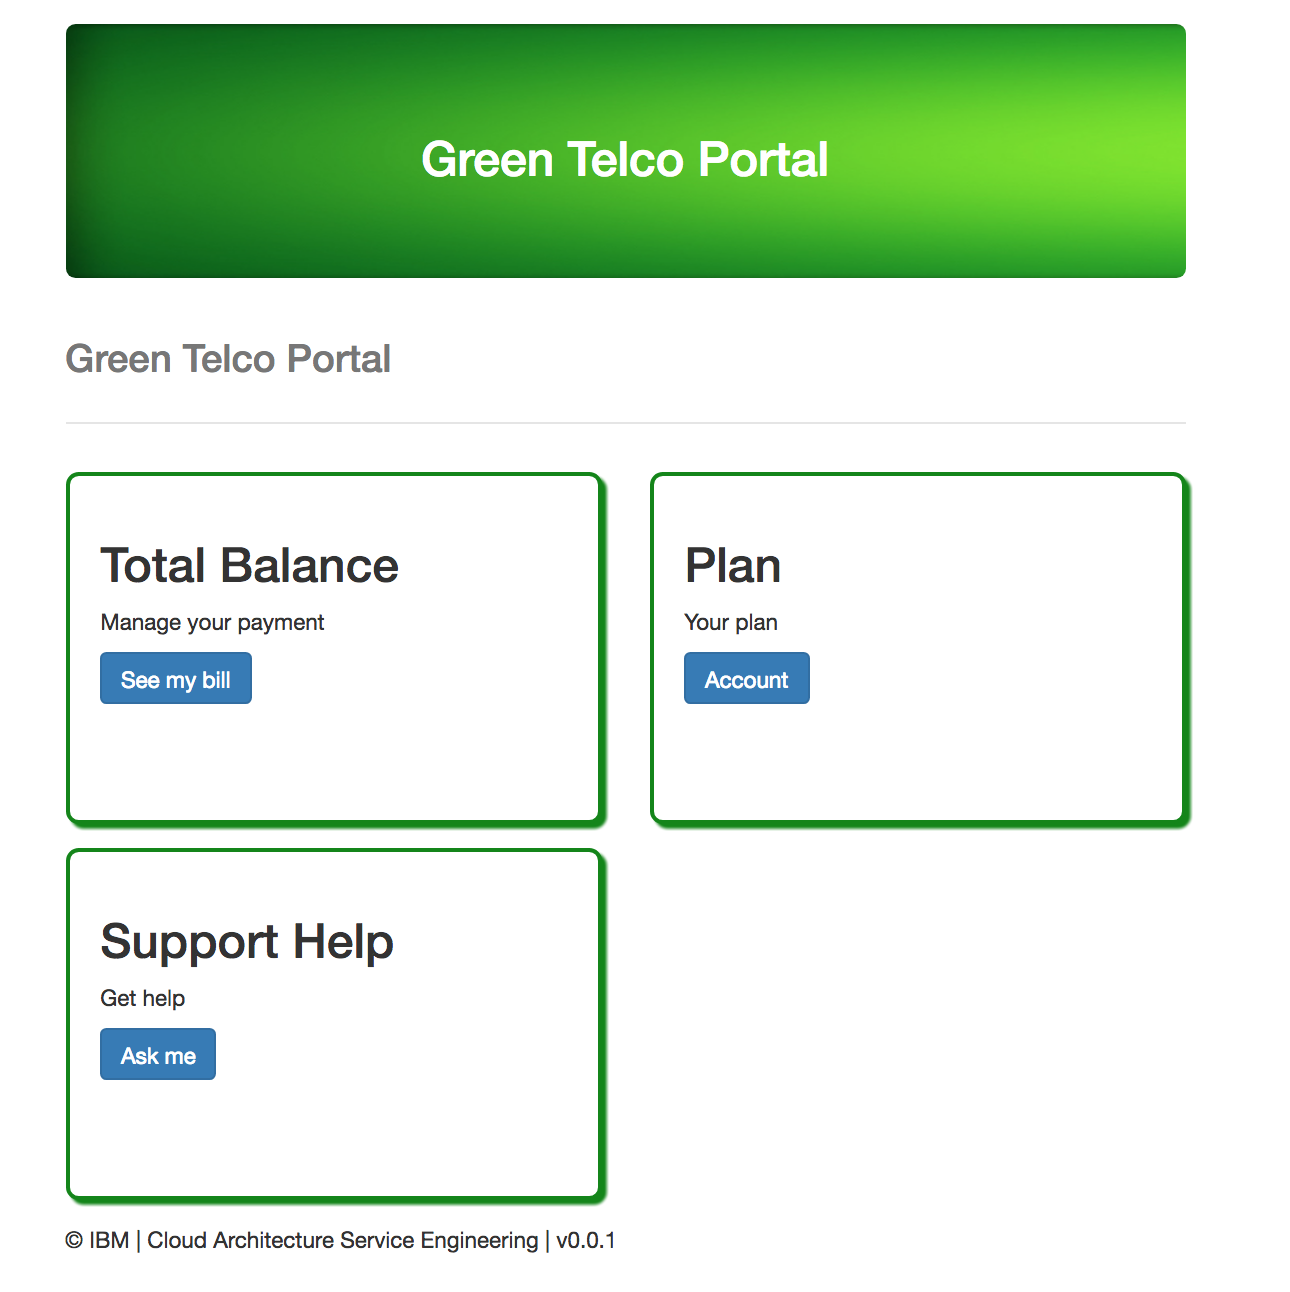
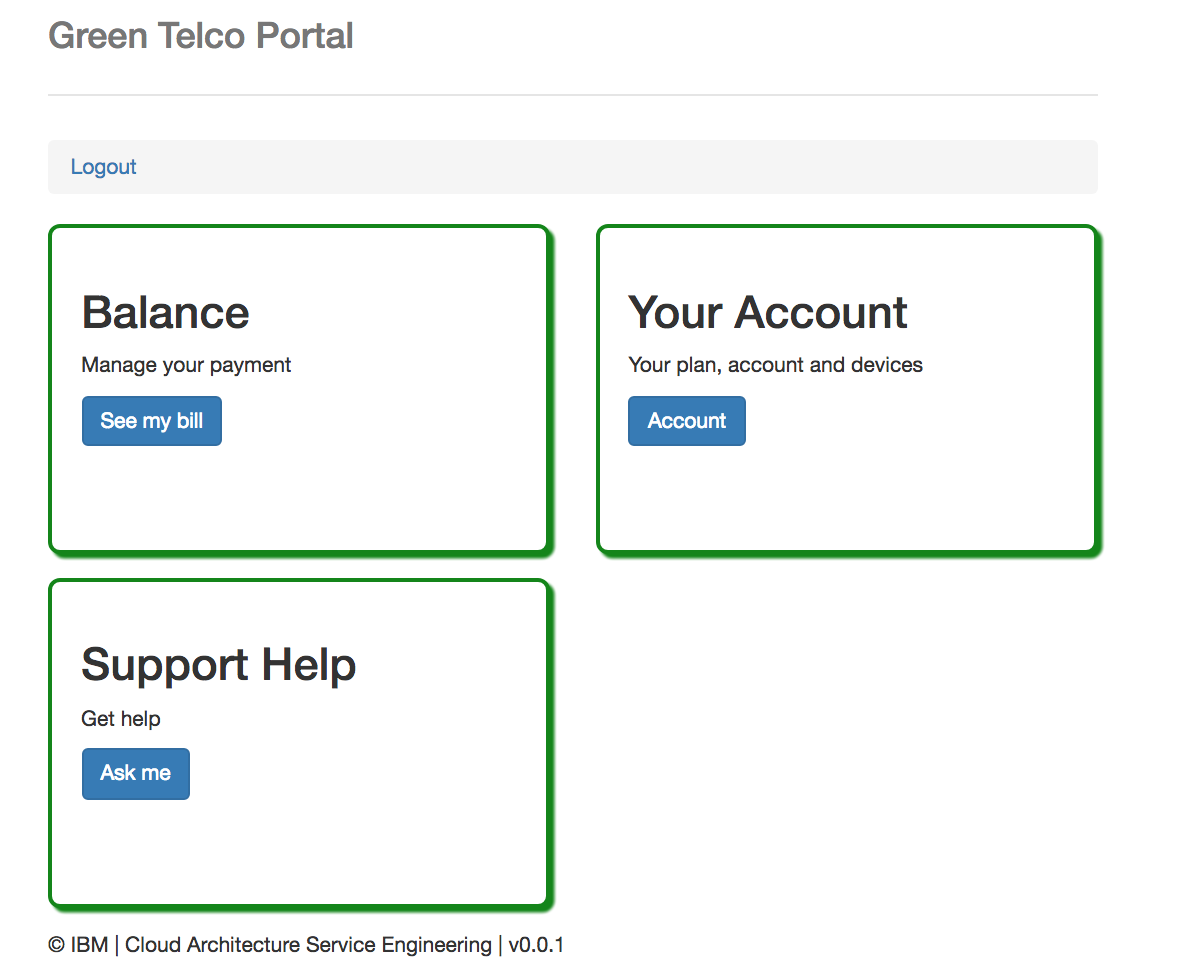
Complete the runtime flow, and code

Changed region(s): [[0.0305, 0.0, 0.9442, 0.9816]]

diff --git a/src/server/routes/features/conversation.js b/src/server/routes/features/conversation.js
@@ -22,36 +22,47 @@ var toneAnalyzer = require('./toneAnalyzerClient')
 var churnScoring = require('./churnServiceClient')
 
 /**
-Conversation delegates to the Conversation Broker Micro Service.
+Function to support the logic of integrating all the services.
 */
 module.exports = {
   itSupport : function(config,req,res){
     req.body.context.predefinedResponses="";
-    if (req.body.context.toneAnalyzer  ) { //&& req.body.text !== ""
+    console.log("text "+req.body.text+".")
+    if (req.body.context.toneAnalyzer && req.body.text !== "" ) {
         toneAnalyzer.analyzeSentence(config,req.body.text).then(function(toneArep) {
               if (config.debug) {console.log('Tone Analyzer '+ JSON.stringify(toneArep));}
               req.body.context["ToneAnalysisResponse"]=toneArep.utterances_tone[0].tones[0];
               if (req.body.context["ToneAnalysisResponse"].tone_name === "Frustrated") {
-                churnScoring.scoreCustomer(req.body,function(score){
+                churnScoring.scoreCustomer(config,req,res,function(score){
                     req.body.context["ChurnScore"]=score;
                 })
               }
-              sendToWCS(config,req,res);
-        });
+              sendToWCSAndBackToUser(config,req,res);
+        }).catch(function(error){
+              console.log(error);
+          if (error.Error !== undefined) {
+            res.status(500).send({'text':error.Error});
+          }});
     }
-    if (req.body.context.action === "search") {
+    if (req.body.context.action === "search" && req.body.context.item ==="UserRequests") {
       ticketing.getUserTicket(config,req.body.user.email,function(ticket){
           if (config.debug) {
               console.log('Ticket response: ' + JSON.stringify(ticket));
           }
           req.body.context["Ticket"]=ticket
-          sendToWCS(config,req,res);
+          sendToWCSAndBackToUser(config,req,res);
       })
-    } else if (req.body.context.action === "recommend") {
+    }
+    if (req.body.context.action === "recommend") {
       // TODO call ODM Here
-        sendToWCS(config,req,res);
-    } else {
-        sendToWCS(config,req,res);
+        sendToWCSAndBackToUser(config,req,res);
+    }
+    if (req.body.context.action === "transfer") {
+      console.log("Transfer to "+ req.body.context.item)
+    }
+
+    if (req.body.context.action === undefined) {
+        sendToWCSAndBackToUser(config,req,res);
     }
   } // itSupport
 };
@@ -59,9 +70,9 @@ module.exports = {
 // ------------------------------------------------------------
 // Private
 // ------------------------------------------------------------
-function sendToWCS(config, req, res){
+function sendToWCSAndBackToUser(config, req, res){
   sendMessage(config,req.body,config.conversation.workspace,res).then(function(response) {
-    if (config.debug) {console.log(" <<< From WCS "+JSON.stringify(response,null,2));}
+    if (config.debug) {console.log("\n <<< From WCS "+JSON.stringify(response,null,2));}
     response.text="<p>"+response.output.text[0]+"</p>";
     //  support multiple choices response
     if (response.context.action === "click") {
@@ -69,6 +80,7 @@ function sendToWCS(config, req, res){
     }
     res.status(200).send(response);
   }).catch(function(error){
+        console.log(error);
     if (error.Error !== undefined) {
       res.status(500).send({'text':error.Error});
     }
@@ -81,7 +93,7 @@ var sendMessage = function(config,message,wkid,res,next){
           message.context["conversation_id"]=config.conversation.conversationId;
       }
       if (config.debug) {
-          console.log("--- Connect to Watson Conversation named: " + config.conversation.conversationId);
+          console.log("\n--- Connect to Watson Conversation named: " + config.conversation.conversationId);
           console.log(">>> to WCS "+JSON.stringify(message,null,2));
       }
       conversation = watson.conversation({
@@ -99,7 +111,7 @@ var sendMessage = function(config,message,wkid,res,next){
           function(err, response) {
             if (err) {
               console.log('error:', err);
-              resolve(null,{'Error': "Communication error with Watson Service. Please contact your administrator"});
+              reject(null,{'Error': "Communication error with Watson Service. Please contact your administrator"});
             } else {
               if (config.conversation.usePersistence) {
                   response.context.persistId=message.context.persistId;

diff --git a/src/server/routes/features/churnServiceClient.js b/src/server/routes/features/churnServiceClient.js
@@ -53,10 +53,10 @@
 
  module.exports = {
    scoreCustomer : function(config,req,res,next){
-     var opts = buildOptions('GET','/customers/'+req.params.id,config);
-     opts.headers['Content-Type']='multipart/form-data';
+     //var opts = buildOptions('GET','/c/',config);
+     //opts.headers['Content-Type']='multipart/form-data';
      //processRequest(res,opts);
-     console.log("Call churn scoring service");
+     console.log("Call churn scoring service for "+req.body);
      next({"score":0.77})
    }
 } // exports

diff --git a/src/test/TestMainScenario.js b/src/test/TestMainScenario.js
@@ -1,0 +1,21 @@
+const request = require('request')
+
+var buildOptions=function(met,aPath){
+  return {
+    url: "http://localhost:3001"+aPath,
+  //  path:apath,
+    method: met,
+    rejectUnauthorized: true,
+    //ca: caCerts,
+    headers: {
+      accept: 'application/json',
+      'Content-Type': 'application/json'
+    }
+  }
+}
+const body ={username: "eddie@email.com", password: "eddie"}
+var opts= buildOptions("POST","/login");
+console.log(opts)
+request(opts,body,function(resp){
+  console.log(resp)
+})

diff --git a/src/client/app/conv/conversation.html b/src/client/app/conv/conversation.html
@@ -7,8 +7,9 @@
   <div class='col-xs-10'>
     <p>Welcome to Green Telco Support: Try the following sentences:</p>
     <ul>
-      <li>I do not understand my rate plan</li>
+      <li>I was oversea and the data network was poor, slow</li>
       <li>I want to know for my phone reimbursement request</li>
+      <li>what? the sale rep told me it will be free, this is a scandal very frustrating, what can be done?</li>
     </ul>
   <br/>
   </div>

diff --git a/src/server/routes/userlogin.js b/src/server/routes/userlogin.js
@@ -26,7 +26,7 @@ module.exports = function(app, passport){
   })
 
   app.post('/login', passport.authenticate('local', { failureFlash: 'Invalid username or password.' }), function(req, res){
-    console.log('User Authenticated Successfully:', req.user)
+    console.log('Login API: User Authenticated Successfully:', req.user)
     res.status(200).send(req.user);
   })
 }

diff --git a/src/server/routes/features/toneAnalyzerClient.js b/src/server/routes/features/toneAnalyzerClient.js
@@ -36,7 +36,7 @@ module.exports = {
           tone_analyzer.tone_chat(params, function(error, response) {
             if (error) {
               console.log('error:', error);
-              resolve(null,error);
+              reject(null,error);
             }
             else {
               resolve(response);

diff --git a/src/client/app/home.component.html b/src/client/app/home.component.html
@@ -1,3 +1,6 @@
+<ol class="breadcrumb">
+  <li><a (click)="logout()">Logout</a></li>
+</ol>
 <div class="row">
   <h3 *ngIf="user">Welcome to the new myGreen Telco {{user.email}} </h3>
 </div>

diff --git a/docs/flow/README.md b/docs/flow/README.md
@@ -47,10 +47,12 @@ Eddie also asking about the status of his reimbursement request, with the phrase
 
 The bot returns the status of the last ticket: it is rejected. Eddie is not very happy and complains about it: ""
 
-![]()
-The chat transcript from Eddie is sent to Tone Analyzer and NLU which then determines the sentiment and tone. Using the sentiment and the tone it is determined that Edie is  "Frustrated".
+![](eddie-upset.png)
+The chat transcript from Eddie is sent to Tone Analyzer and NLU which then determines the sentiment and tone. Using the sentiment and the tone it is determined that Eddie is  "Frustrated".
 
-The chatbot application then invokes the customer churn service which uses the ML model to determine that the customer is not a happy customer and has been with the Telco for 2 years. Eddie has a genuine problem and deserves a senior call center rep or a supervisor. Eddie is the type of customer the Telco does not want to loose. The application then asks Eddie for a number and the supervisor calls Eddie and clarifies and resolves Eddies issues.
+The chatbot application then invokes the customer churn service which uses the ML model to determine that the customer is not a happy customer and has been with the Telco for 2 years.
+The figure below illustrates this new flow:
 
+![](chat-bot-flow.png)
 
-Z OS Connect is used to create an API (Get Customer Detail). This API returns the customer information based on customer id.
+Eddie has a genuine problem and deserves a senior call center rep or a supervisor. Eddie is the type of customer the Telco does not want to loose. The application then asks Eddie for a number and the supervisor calls Eddie and clarifies and resolves Eddies issues.
